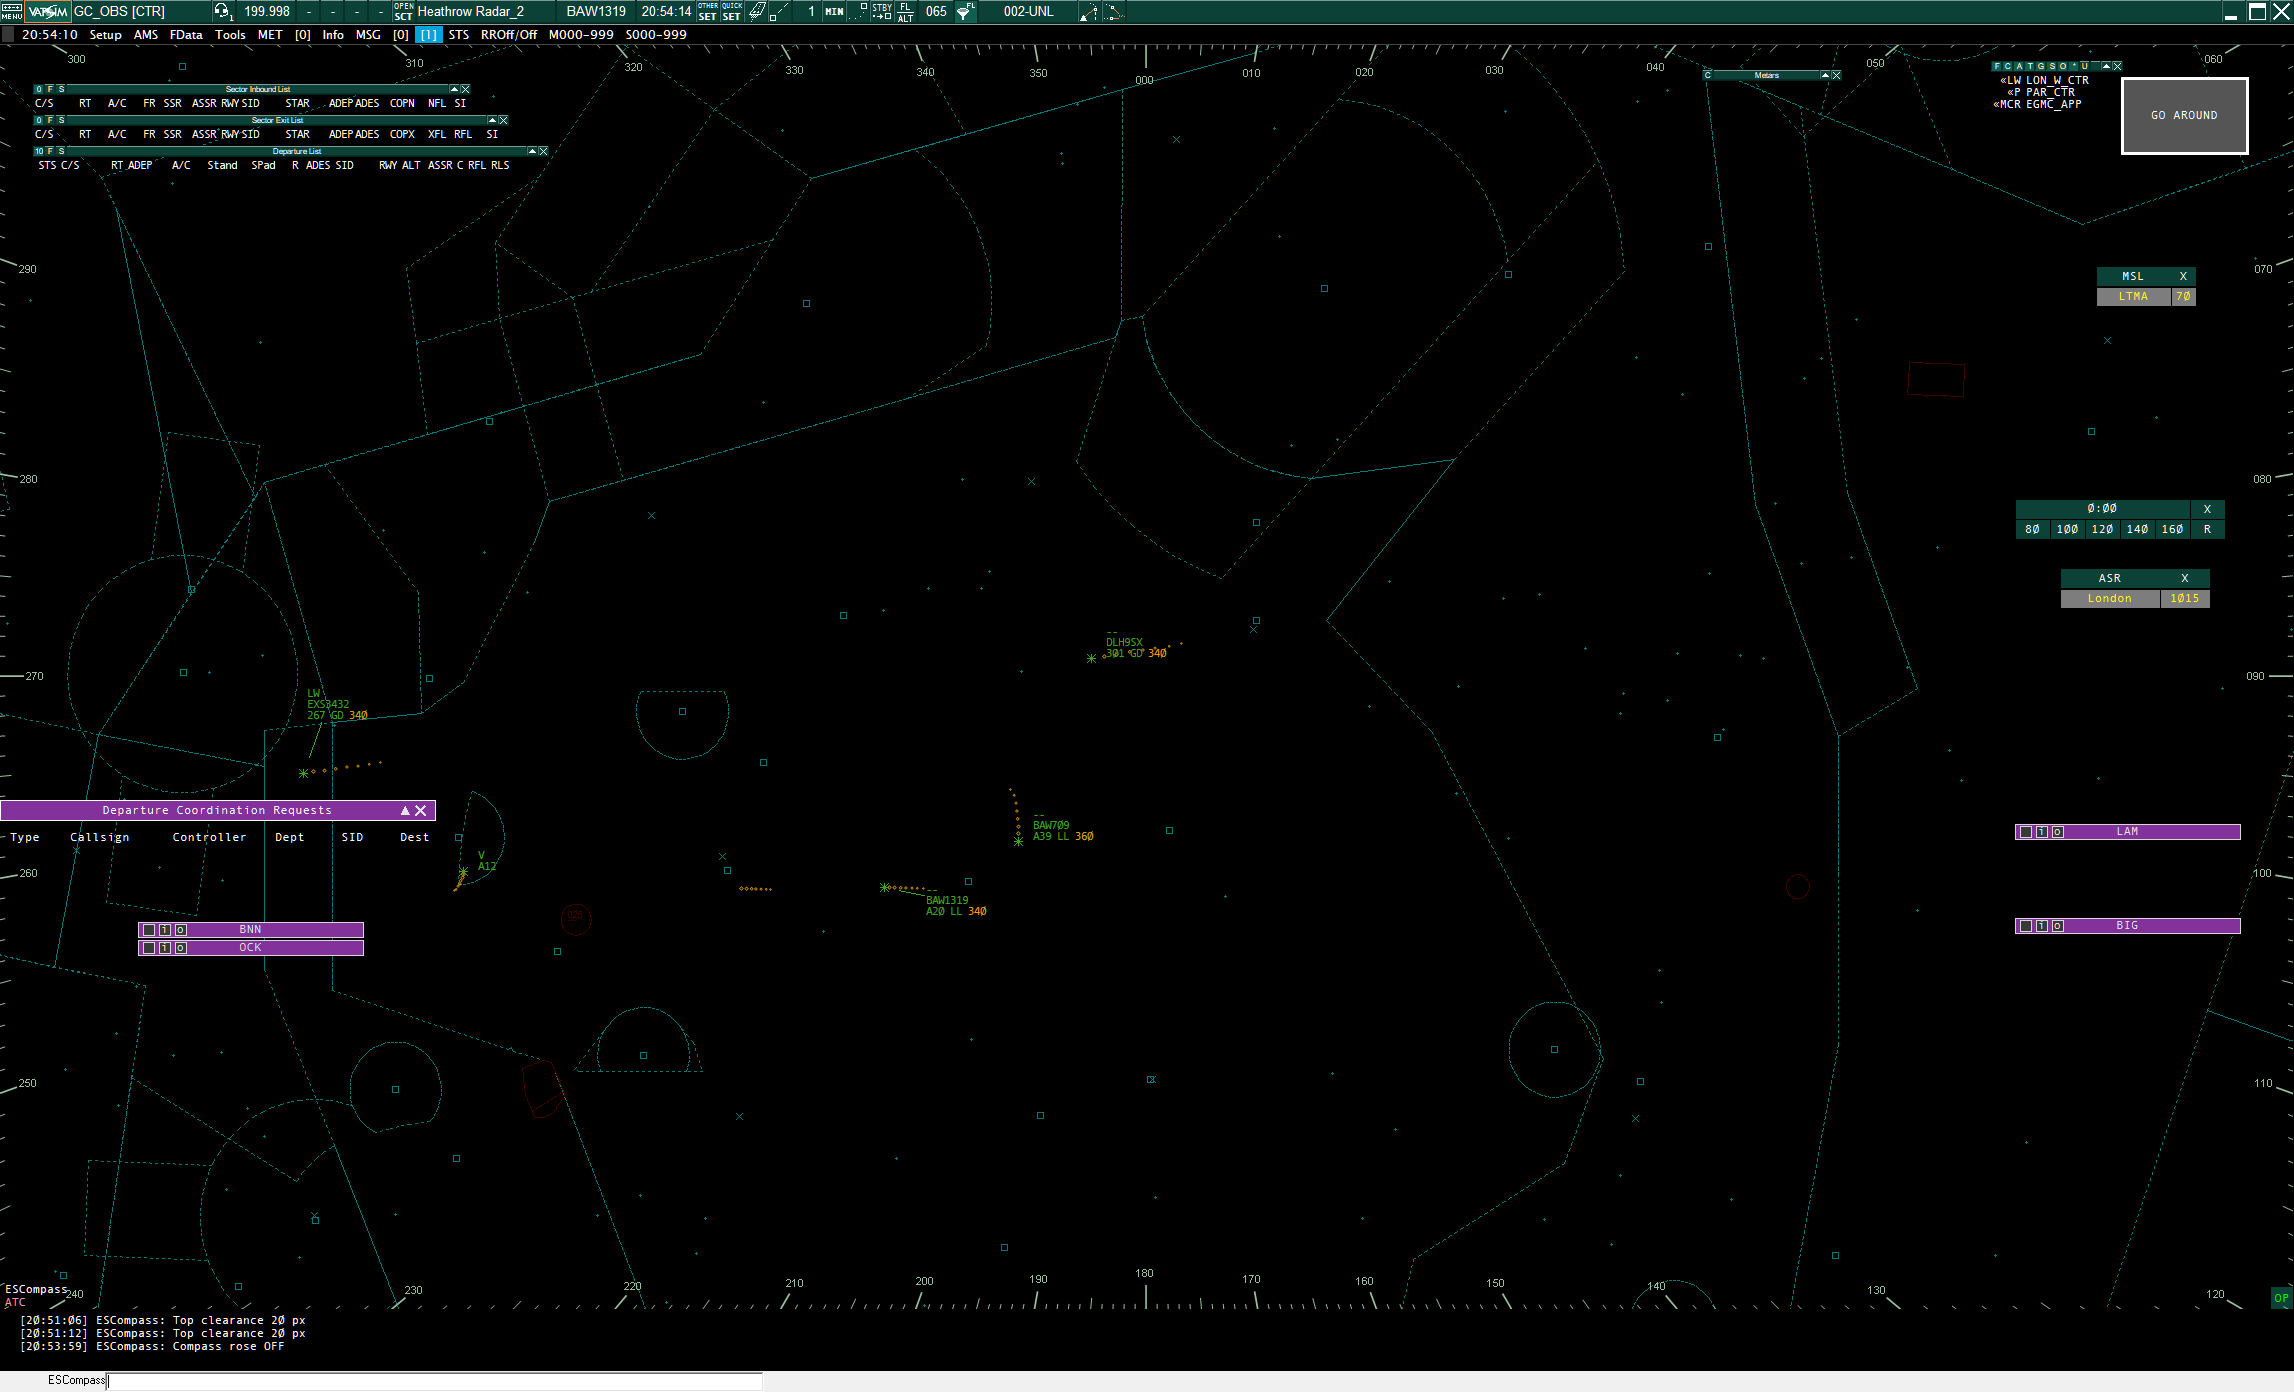
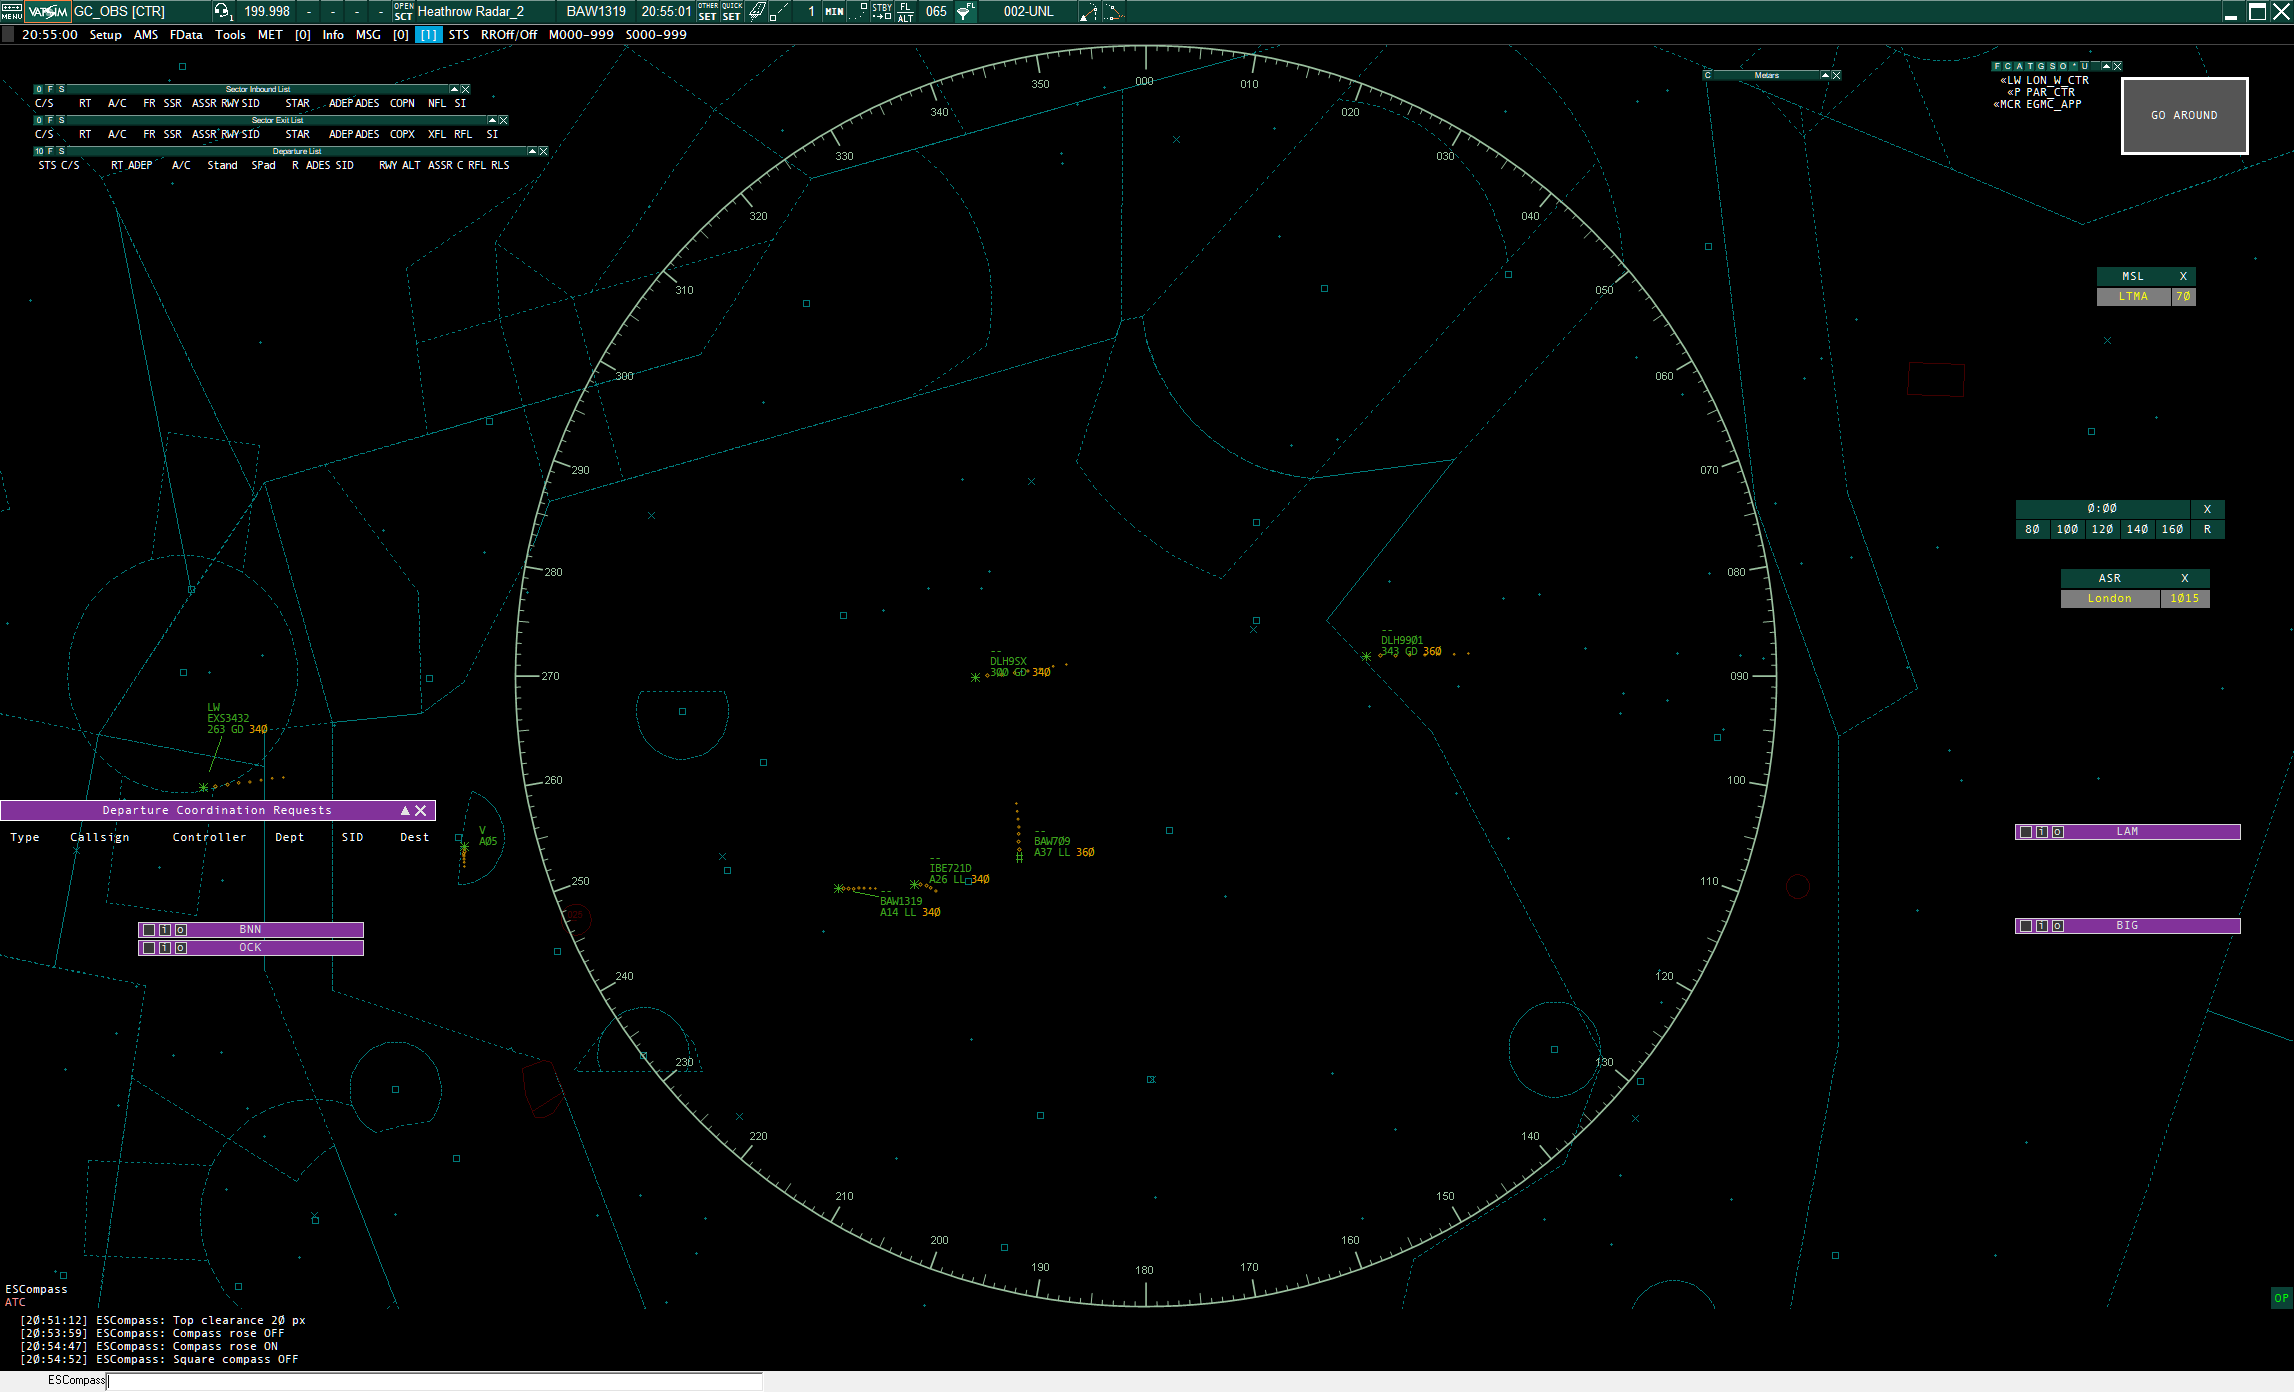
Show the compass screenshots in the README.
The two pictures were named the wrong way round, so the filenames now match the rose and the square compass.

diff --git a/README.md b/README.md
@@ -4,6 +4,16 @@ EuroScope overlay that draws two geographic compasses on the normal radar screen
 
 Bearings are true north on the picture, so both compasses turn when the scope is rotated. They match ground track on the map. They are not magnetic: a magnetic heading differs from the compass by the sectorfile variation.
 
+## Screenshots
+
+Compass rose, `.cmprose`, on Heathrow Radar:
+
+![Compass rose centred on the radar](ESCompass_Rose.png)
+
+Square compass, `.cmpsquare`, on the same screen:
+
+![Square compass around the radar edge](ESCompass_Square.png)
+
 ## Commands
 
 | Command | Effect |
@@ -32,7 +42,7 @@ TopSky's global menu is not one of those areas. It is painted on the radar after
 
 ## Install
 
-EuroScope is 32-bit. Build **Release | Win32** and load `bin\Win32\Release\ESCompass.dll`.
+EuroScope is 32-bit. A built DLL is attached to the [v1.1.0 release](https://github.com/compunutter/ESCompass/releases/tag/v1.1.0). To build it yourself, use **Release | Win32** and load `bin\Win32\Release\ESCompass.dll`.
 
 1. Other SET → Plug-ins → Load, and select `ESCompass.dll`.
 2. Select **ESCompass** and move **Standard ES radar screen** (and any other scope you use) from *Forbidden to draw on types* to *Allowed to draw on types*.
